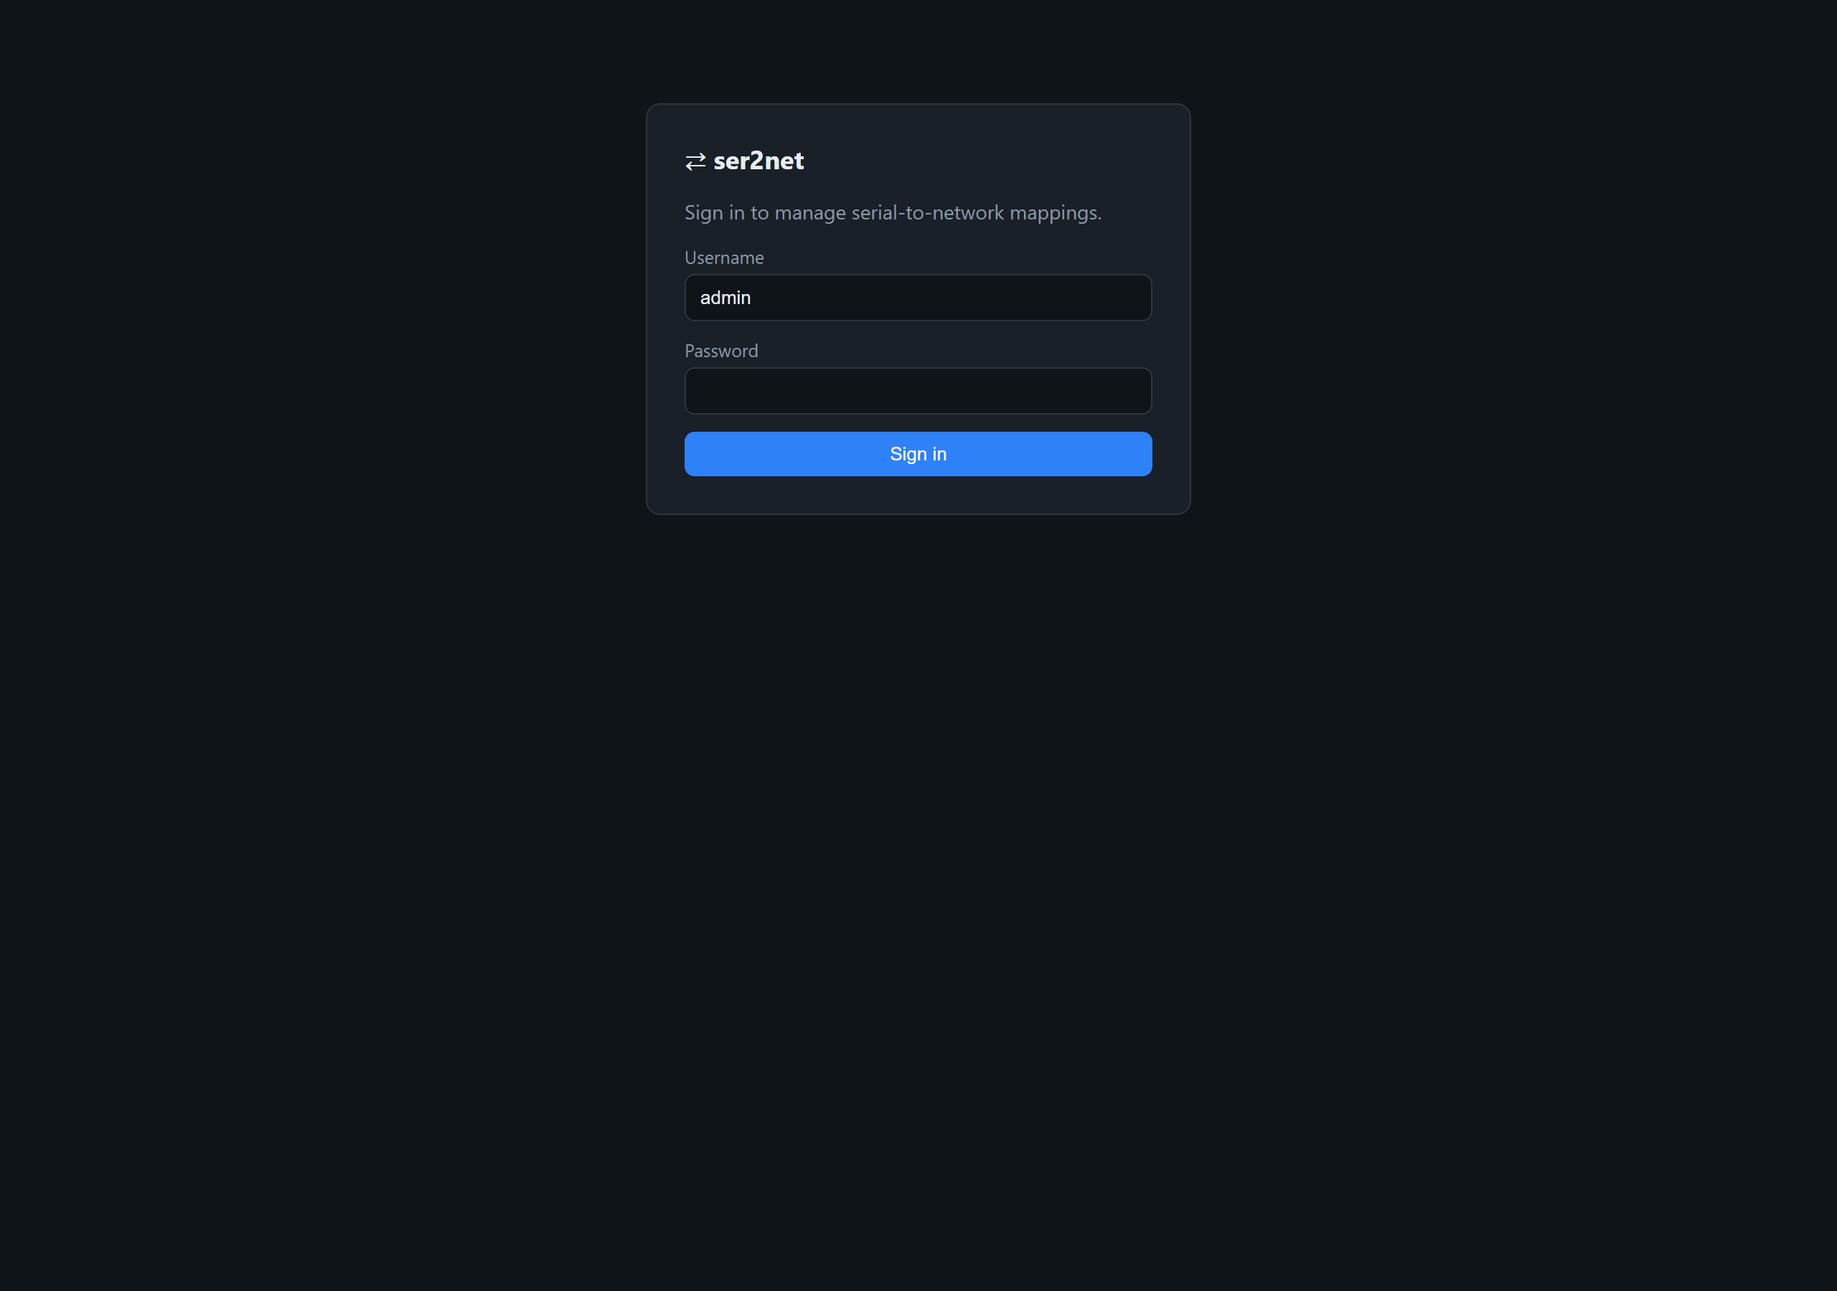
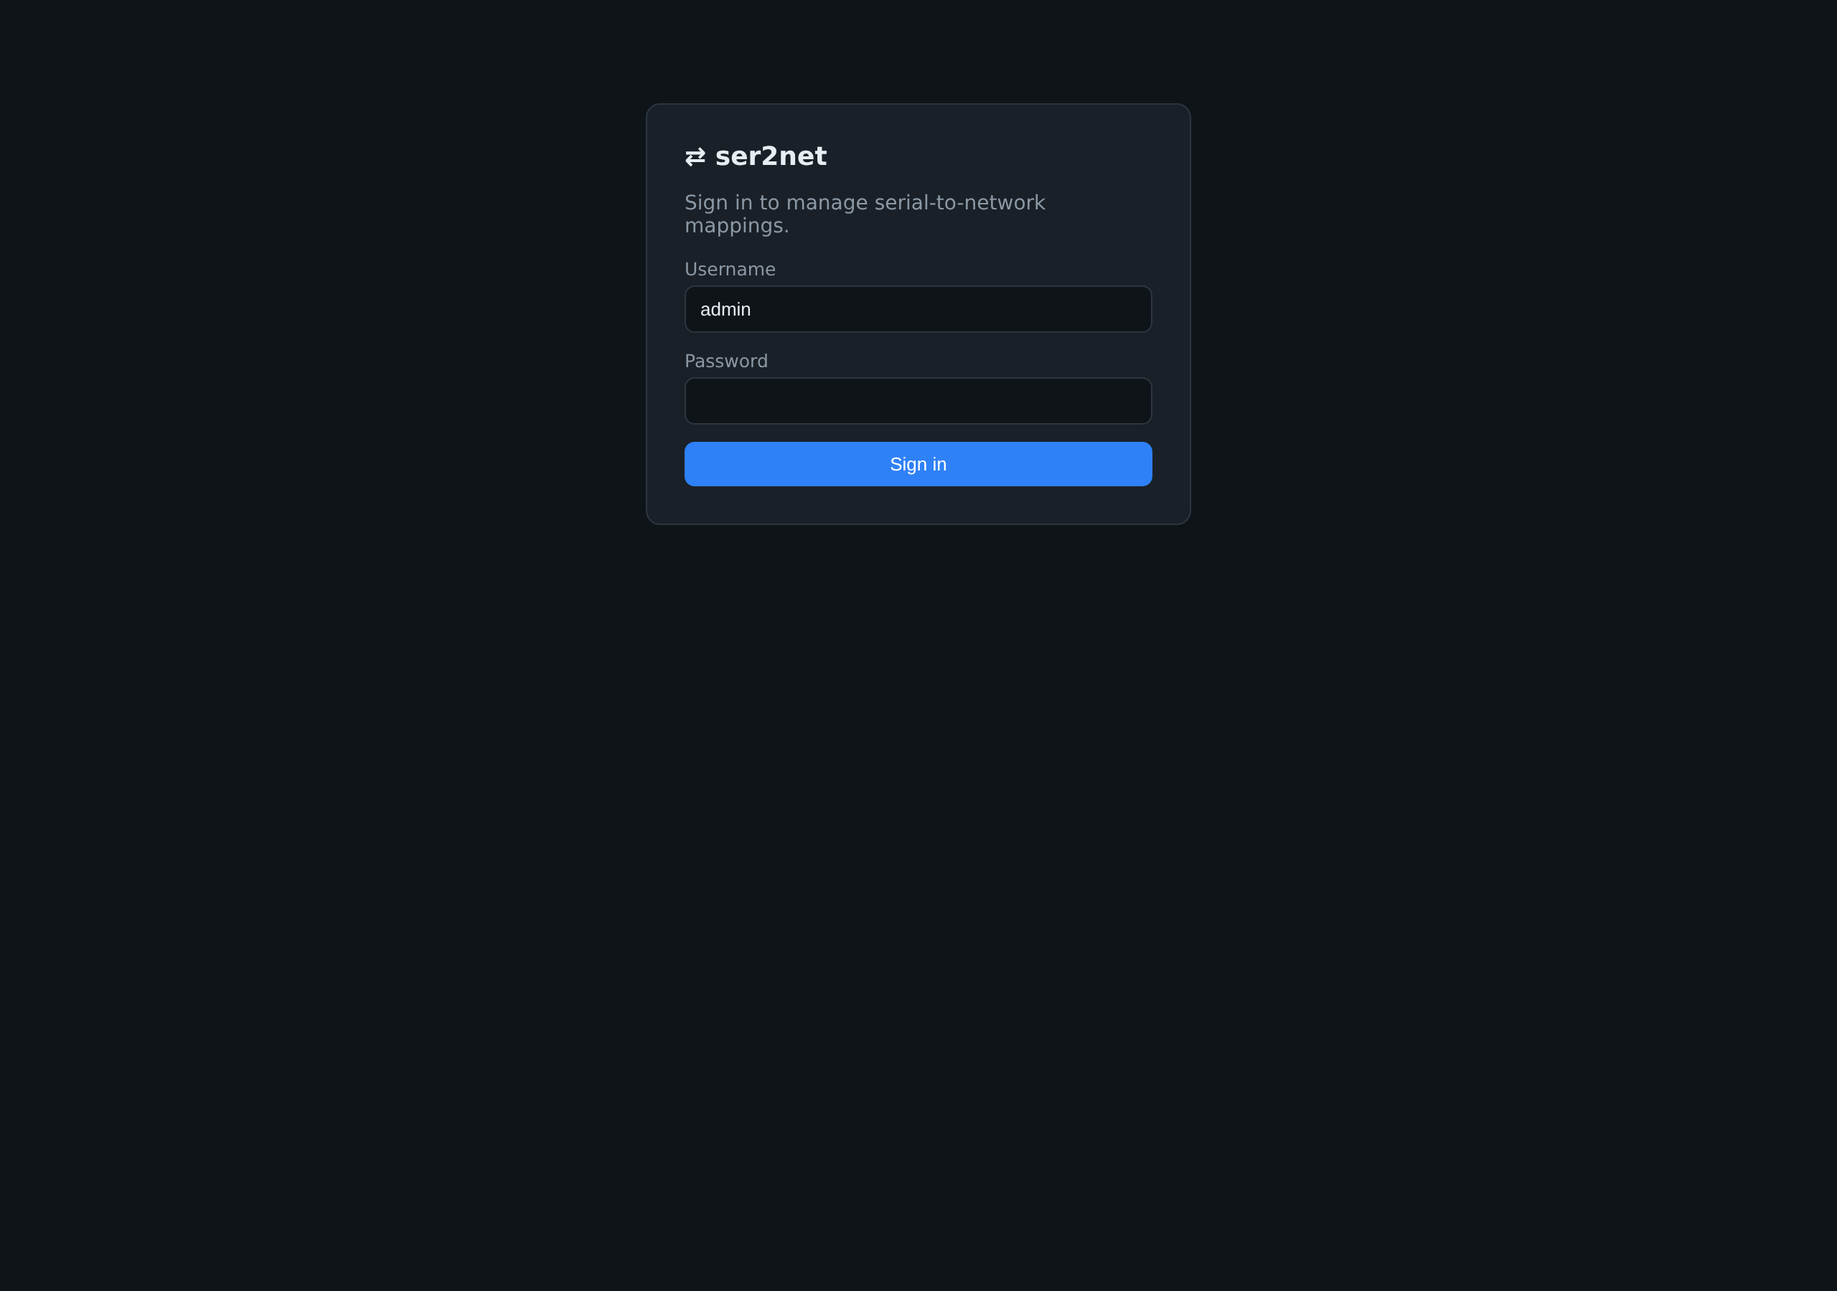
chore: post-v2.5 review — doc fixes, screenshots, cluster hardening, roadmap
Documentation accuracy:
- bootstrap.py: "Python 3.11+" -> "3.10+" (CI/requirements support 3.10).
- README (TR/EN): correct the data-file permission wording (the data DIR is
  locked 0700/icacls, not each file to 0600).
- ROADMAP: move shipped items out of "Planned" (OIDC SSO, REST token roles,
  light/dark theme, xterm fit-to-window, packaging, LAN cluster) into Shipped;
  rewrite the forward plan (cluster depth/hardening, IIoT, packaging, CI Node-24).

Screenshots:
- Regenerate from the running UI; the capture tool now starts a second cluster
  node so the dashboard's LAN-cluster panel shows a real multi-host fleet view.
- Add docs/screenshots/06-cluster.png; show it + the cluster panel in both READMEs.

Cluster code-review fixes (from the v2.5 review):
- cluster.py: close the UDP socket if create_datagram_endpoint() fails (no leak).
- config.py: ClusterSettings.validate raises a clean ConfigError on a non-numeric
  discovery_port instead of a raw ValueError.

Changed region(s): [[0.375, 0.0933, 0.625, 0.4044]]

diff --git a/tools/_capture_screenshots.py b/tools/_capture_screenshots.py
@@ -3,9 +3,11 @@
     pip install playwright && python -m playwright install chromium
     python tools/_capture_screenshots.py
 
-Seeds a few (disabled) demo mappings, completes first-run setup, adds an operator
-and a viewer so the Users panel is populated, then captures the login, dashboard,
-add-mapping form and settings pages. Not part of the app or the test suite.
+Starts TWO ser2net nodes that share a cluster key so the dashboard's LAN-cluster
+panel shows a real multi-host view, completes first-run setup on the primary node,
+adds an operator + viewer (to populate the Users panel), then captures the login,
+dashboard (with the cluster panel), add-mapping form, settings and cluster pages.
+Not part of the app or the test suite.
 """
 import json
 import os
@@ -15,13 +17,31 @@ import sys
 import tempfile
 import time
 
-from playwright.sync_api import sync_playwright
-
 ROOT = os.path.dirname(os.path.dirname(os.path.abspath(__file__)))
-SHOTS = os.path.join(ROOT, "docs", "screenshots")
-UI = 8099
-BASE = f"http://127.0.0.1:{UI}"
+sys.path.insert(0, os.path.join(ROOT, "lib"))
+sys.path.insert(0, ROOT)
 
+from playwright.sync_api import sync_playwright   # noqa: E402
+from app.web.auth import hash_password            # noqa: E402
+
+SHOTS = os.path.join(ROOT, "docs", "screenshots")
+UI = 8099            # primary node (the browser drives this one)
+UI_B = 8100          # second cluster node (data source for the fleet view)
+BASE = f"http://127.0.0.1:{UI}"
+CLUSTER_KEY = "demo-cluster-key"
+
+
+def free_port():
+    s = socket.socket()
+    s.bind(("127.0.0.1", 0))
+    p = s.getsockname()[1]
+    s.close()
+    return p
+
+
+DPORT = free_port()  # shared UDP discovery port for both nodes
+
+# Primary node's mappings (the browser node).
 DEMO_MAPPINGS = [
     {"name": "PLC-1", "enabled": False, "serial": {"port": "COM3", "baudrate": 9600},
      "network": {"mode": "server", "protocol": "rfc2217", "bind_ip": "0.0.0.0", "port": 4001}},
@@ -36,6 +56,16 @@ DEMO_MAPPINGS = [
      "serial": {"port": "COM6", "baudrate": 115200}, "serial_b": {"port": "COM7", "baudrate": 115200}},
 ]
 
+# Second node's mappings (shown as a remote host in the fleet table).
+DEMO_MAPPINGS_B = [
+    {"name": "Robot-arm", "enabled": False, "serial": {"port": "/dev/ttyACM0", "baudrate": 115200},
+     "network": {"mode": "server", "protocol": "raw", "bind_ip": "0.0.0.0", "port": 4001}},
+    {"name": "Welder-3", "enabled": False, "serial": {"port": "COM4", "baudrate": 9600},
+     "network": {"mode": "server", "protocol": "rfc2217", "bind_ip": "0.0.0.0", "port": 4002}},
+    {"name": "Weigh-east", "enabled": False, "serial": {"port": "/dev/ttyUSB3", "baudrate": 19200},
+     "network": {"mode": "server", "protocol": "raw", "bind_ip": "0.0.0.0", "port": 4003}},
+]
+
 
 def wait_port(port, timeout=20):
     end = time.time() + timeout
@@ -48,16 +78,32 @@ def wait_port(port, timeout=20):
     return False
 
 
-def main():
+def start_node(cfg_obj):
     tmp = tempfile.mkdtemp(prefix="ser2net_shots_")
     cfg = os.path.join(tmp, "config.json")
     with open(cfg, "w") as fh:
-        json.dump({"admin_ui": {"bind_ip": "127.0.0.1", "port": UI}, "mappings": DEMO_MAPPINGS}, fh)
-    srv = subprocess.Popen([sys.executable, "ser2net.py", "--no-bootstrap", "--config", cfg],
-                           cwd=ROOT, stdin=subprocess.DEVNULL,
-                           stdout=subprocess.DEVNULL, stderr=subprocess.DEVNULL)
+        json.dump(cfg_obj, fh)
+    proc = subprocess.Popen([sys.executable, "ser2net.py", "--no-bootstrap", "--config", cfg],
+                            cwd=ROOT, stdin=subprocess.DEVNULL,
+                            stdout=subprocess.DEVNULL, stderr=subprocess.DEVNULL)
+    return proc
+
+
+def main():
+    cluster = {"enabled": True, "key": CLUSTER_KEY, "discovery_port": DPORT}
+    # Bind both nodes to 0.0.0.0 so each is reachable at its auto-detected LAN IP
+    # (that is the address the other node advertises and fetches).
+    node_a = start_node({"admin_ui": {"bind_ip": "0.0.0.0", "port": UI},
+                         "cluster": cluster, "mappings": DEMO_MAPPINGS})
+    # Second node is pre-seeded with an admin so its key-guarded /api/cluster/local
+    # responds immediately (no first-run /setup gate); we never log into it.
+    node_b = start_node({"admin_ui": {"bind_ip": "0.0.0.0", "port": UI_B},
+                        "users": [{"username": "admin", "password_hash": hash_password("clusterdemo1"),
+                                   "role": "admin", "pwd_version": 1}],
+                        "cluster": cluster, "mappings": DEMO_MAPPINGS_B})
     try:
-        assert wait_port(UI), "server did not start"
+        assert wait_port(UI), "primary node did not start"
+        assert wait_port(UI_B), "second node did not start"
         with sync_playwright() as p:
             browser = p.chromium.launch()
             ctx = browser.new_context(viewport={"width": 1280, "height": 900},
@@ -82,16 +128,29 @@ def main():
                 page.click("form[action='/settings/users'] button[type=submit]")
                 page.wait_for_load_state("networkidle")
 
-            # 04 settings
+            # 04 settings (now includes the LAN cluster section)
             page.goto(f"{BASE}/settings")
             page.wait_for_load_state("networkidle")
             page.screenshot(path=os.path.join(SHOTS, "04-settings.png"), full_page=True)
 
-            # 02 dashboard (wait for the mappings table to load)
+            # 02 dashboard — wait for the cluster panel to discover the second node
             page.goto(f"{BASE}/")
             page.wait_for_selector("table.grid")
-            page.wait_for_timeout(800)
+            try:
+                page.wait_for_function(
+                    f"() => document.querySelector('#cluster') && "
+                    f"document.querySelector('#cluster').textContent.includes(':{UI_B}')",
+                    timeout=15000)
+            except Exception:
+                print("warning: second node did not appear in the cluster panel "
+                      "(UDP discovery may be blocked in this environment)")
+            page.wait_for_timeout(600)
             page.screenshot(path=os.path.join(SHOTS, "02-dashboard.png"), full_page=True)
+
+            # 06 cluster — close-up of just the fleet panel
+            panel = page.query_selector("#cluster")
+            if panel:
+                panel.screenshot(path=os.path.join(SHOTS, "06-cluster.png"))
 
             # 03 add-mapping form
             page.click("text=+ Add mapping")
@@ -106,13 +165,14 @@ def main():
             page.screenshot(path=os.path.join(SHOTS, "01-login.png"))
 
             browser.close()
-        print("captured: 01-login, 02-dashboard, 03-add-mapping, 04-settings")
+        print("captured: 01-login, 02-dashboard, 03-add-mapping, 04-settings, 06-cluster")
     finally:
-        srv.terminate()
-        try:
-            srv.wait(timeout=5)
-        except subprocess.TimeoutExpired:
-            srv.kill()
+        for proc in (node_a, node_b):
+            proc.terminate()
+            try:
+                proc.wait(timeout=5)
+            except subprocess.TimeoutExpired:
+                proc.kill()
 
 
 if __name__ == "__main__":

diff --git a/app/engine/cluster.py b/app/engine/cluster.py
@@ -141,8 +141,13 @@ class ClusterDiscovery:
             sock.close()
             self.log(f"cluster: could not bind UDP {port}: {e} — discovery disabled")
             return
-        self._transport, _ = await loop.create_datagram_endpoint(
-            lambda: _BeaconProtocol(self.handle_datagram), sock=sock)
+        try:
+            self._transport, _ = await loop.create_datagram_endpoint(
+                lambda: _BeaconProtocol(self.handle_datagram), sock=sock)
+        except OSError as e:
+            sock.close()  # endpoint creation owns the socket only on success
+            self.log(f"cluster: could not start UDP listener on {port}: {e} — discovery disabled")
+            return
         self._running = True
         self._beacon_task = asyncio.create_task(self._beacon_loop(), name="cluster-beacon")
         self.log(f"cluster: discovery on UDP {port} as '{socket.gethostname()}' "

diff --git a/app/config.py b/app/config.py
@@ -554,7 +554,11 @@ class ClusterSettings:
             return
         if not self.key.strip():
             raise ConfigError("Cluster is enabled but no shared key is set.")
-        if not (1 <= int(self.discovery_port) <= 65535):
+        try:
+            port = int(self.discovery_port)
+        except (TypeError, ValueError):
+            raise ConfigError("Cluster discovery port must be a number.") from None
+        if not (1 <= port <= 65535):
             raise ConfigError("Cluster discovery port must be 1..65535.")
         if self.advertise_ip.strip():
             try:

diff --git a/bootstrap.py b/bootstrap.py
@@ -2,7 +2,7 @@
 
 On first run this installs the bundled wheels from ``vendor/wheels/`` into a
 local ``lib/`` directory (added to ``sys.path`` by ``ser2net.py``), so the app
-runs on any machine that merely has a Python 3.11+ interpreter — no internet,
+runs on any machine that merely has a Python 3.10+ interpreter — no internet,
 no virtualenv, no system-wide installs required.
 
 It is idempotent: if every dependency already imports, it does nothing.

diff --git a/ROADMAP.md b/ROADMAP.md
@@ -1,5 +1,7 @@
 # ser2net — Roadmap
 
+> Current release: **v2.5.0**. CI is green across Linux + Windows × Python 3.10–3.13.
+
 ## Shipped
 
 ### v1.0 — MVP
@@ -29,8 +31,6 @@
 - **Admin TLS** via cert/key paths or `openssl` self-signed generation
 - **Mappings export/import** (JSON, no secrets) + duplicate
 
----
-
 ### v2.1a — in-browser serial console
 - xterm.js terminal over an authenticated WebSocket (`/api/mappings/{id}/console`):
   read live traffic, or type to the device (net mappings, not read-only)
@@ -49,9 +49,7 @@
 - **Docker** image + `docker-compose` + headless bind env; **CI** (GitHub Actions:
   ruff + ubuntu/windows × Python 3.10–3.13); unified cross-platform test runner
 
-### v2.2 — commercial features (Phase 2)
-- **REST API** (`/api/v1`): bearer-token JSON API — mapping CRUD, start/stop/restart,
-  status, ports, OpenAPI 3.0 spec
+### v2.2 — Modbus, RBAC, LDAP, MQTT (Phase 2)
 - **Modbus RTU↔TCP gateway** (`protocol=modbus`): multi-master, bus-locked
   transactions, txn-id integrity, `0x0B` timeout; reply-unit validation. **Edge mode:**
   periodic register polling (uint/int/float 16/32, scaling) published to MQTT
@@ -61,33 +59,55 @@
   group→role mapping, shadow accounts on the RBAC model
 - **MQTT publishing** (optional `paho-mqtt`): per-mapping serial-line → broker with
   retained birth/death
-- **Client-side virtual COM** recipes (`docs/VIRTUAL-COM.md`); refreshed UI screenshots
+- **Client-side virtual COM** recipes (`docs/VIRTUAL-COM.md`)
+
+### v2.3 — UX & access polish
+- **OIDC single sign-on** (authorization-code flow + issuer discovery; claim→role
+  mapping, shadow accounts) — `app/web/oidc_auth.py`, optional `authlib`
+- **REST API token roles** (`admin` / `operator` / `viewer`; `viewer` is read-only)
+- **Light / dark theme toggle** (persisted in `localStorage`); xterm fit-to-window addon
+- _(i18n was dropped — the UI stays English by decision.)_
+
+### v2.4 — packaging & distribution
+- **PyInstaller standalone builds** (Windows `.exe`, Linux binary) bundling the optional
+  MQTT/LDAP/OIDC deps; GitHub Actions release artifacts published on `v*` tags
+
+### v2.5 — LAN cluster
+- **Auto-discovery + unified fleet view**: nodes find each other via HMAC-signed UDP
+  broadcast beacons (no mDNS) and one node aggregates every node's mappings into a
+  single **read-only** table, each row tagged with its host (name + IP). Opt-in, off by
+  default; trust = a shared cluster key. Server-side fan-out to peers' key-guarded
+  `/api/cluster/local`; the browser only talks to the node it logged into.
 
 ---
 
 ## Planned
 
-### v2.3 — UX & access polish
-- **OIDC / SAML browser-SSO** (next auth step after LDAP; auth-code flow + JWKS)
-- **REST API token scopes/roles** (currently a single admin-level token) + per-token
-- i18n (TR/EN) for the UI; dark/light theme toggle; xterm fit-to-window addon
+### v2.6 — cluster depth & hardening
+- **Remote control** from the unified view: start/stop/edit a peer's mappings (the read
+  path exists; add a key-guarded write endpoint + role check on the target node)
+- **Per-node health/uptime** column; surface a node-level "discovery disabled" status in
+  the UI when the UDP bind fails (today it only logs)
+- **Manual peer list** for routed/L3 networks where broadcast doesn't reach (complement
+  to auto-discovery)
+- **Security hardening** (from the v2.5 review): validate/curb peer-advertised IPs before
+  server-side fetch (SSRF defense-in-depth), optional TLS certificate pinning for peer
+  fetch, a light rate-limit on `/api/cluster/local`, optional IPv6 (multicast) discovery
 
-### v2.4 — packaging & distribution
-- ~~PyInstaller standalone builds (Windows `.exe`, Linux binary) bundling the optional
-  MQTT/LDAP/OIDC deps; GitHub Actions release artifacts on `v*` tags~~ ✅ shipped
-- Windows service installer (Shawl); `.deb` / `.rpm`
-- Automated multi-platform offline wheelhouse (cp311–cp313 × OS) for source installs
-
-### v2.5 — industrial/IIoT depth
+### v2.7 — industrial/IIoT depth
 - **Sparkplug B** edge payloads (Modbus register + MQTT plumbing already in place)
-- Modbus: write support (FC 5/6/15/16), per-point MQTT→register control, RTU inter-frame
-  tuning; RS-485 hardware auto-RTS (`TIOCSRS485`) UI
-- ~~LAN **cluster dashboard**: nodes auto-discover each other (signed UDP broadcast,
-  no mDNS) and one node shows every node's mappings in a single read-only table, each
-  row tagged with its host (name + IP)~~ ✅ shipped (v2.5a)
-- Cluster: remote control (start/stop/edit a peer's mappings from one screen) + per-node
-  health/uptime in the unified view
-- classic `ser2net.yaml` import for migration
+- **Modbus write** support (FC 5/6/15/16), per-point MQTT→register control, RTU
+  inter-frame tuning
+- **RS-485 hardware auto-RTS** (`TIOCSRS485`) UI
+
+### v2.8 — packaging & migration
+- Windows service installer (Shawl); `.deb` / `.rpm` packages
+- Automated multi-platform offline wheelhouse (cp310–cp313 × OS) for source installs
+- Classic `ser2net.yaml` import for migration
+
+### Maintenance
+- Bump pinned GitHub Actions off Node 20 (deprecated 2026-06-16) to current
+  `actions/*@v5` to clear the CI/release deprecation warnings
 
 ### Icebox / conditional
 - Thread-per-port serial backend — only if a real Windows high-throughput /
@@ -95,7 +115,8 @@
 - Per-mapping TLS client certificate verification (mTLS) for data bridges
 - Pluggable persistent session store
 
-> Note: mDNS/zeroconf advertising has been removed from the roadmap.
+> Note: mDNS/zeroconf advertising is intentionally **not** on the roadmap; LAN cluster
+> discovery uses signed UDP broadcast instead.
 
 ---
 

diff --git a/README.md b/README.md
@@ -14,15 +14,19 @@ web arayüzünden yönetilen, çapraz-platform (Windows + Linux) saf-Python köp
 
 ## 📸 Ekran Görüntüleri
 
-**Pano — onlarca eşleme, canlı durum, algılanan portlar:**
+**Pano — onlarca eşleme, canlı durum, algılanan portlar ve LAN cluster paneli:**
 
 ![Pano](docs/screenshots/02-dashboard.png)
+
+**LAN cluster — ağdaki tüm düğümlerin eşlemeleri tek tabloda, her satırda host (ad + IP):**
+
+![Cluster](docs/screenshots/06-cluster.png)
 
 | Eşleme ekleme (tüm seri/ağ seçenekleri) | Tarayıcı-içi seri konsol (xterm.js) |
 |---|---|
 | ![Eşleme formu](docs/screenshots/03-add-mapping.png) | ![Konsol](docs/screenshots/05-console.png) |
 
-| Ayarlar (parola · TLS · yedek) | Giriş |
+| Ayarlar (parola · TLS · cluster · yedek) | Giriş |
 |---|---|
 | ![Ayarlar](docs/screenshots/04-settings.png) | ![Giriş](docs/screenshots/01-login.png) |
 
@@ -224,9 +228,10 @@ Raw TCP düz-metindir — güvensiz ağlarda dikkat. Allowed/priority listesinde
 
 ## 🗂 Yapılandırma & durum dosyaları
 
-Tüm durum **veri dizininde** (varsayılan `data/`):
-- `config.json` — admin IP, parola hash'i, tüm eşlemeler (atomik yazım; sahibe özel
-  izinler: POSIX'te 0600, Windows'ta `icacls` ile sahip/SYSTEM/Administrators).
+Tüm durum **veri dizininde** (varsayılan `data/`). Veri dizini yalnızca sahibe açık
+kilitlenir (POSIX `0700`; Windows'ta `icacls` ile sahip/SYSTEM/Administrators), böylece
+içindeki dosyalar başka kullanıcılarca okunamaz:
+- `config.json` — admin IP, parola hash'i, tüm eşlemeler (atomik yazım).
 - `all.log` — global etkinlik/audit; `audit.log` — config değişiklikleri.
 - `logs/<id>.log` — eşleme başına geçmiş (saatlik bakım: >15 gün veya >100MB kırpılır).
 - `tls/` — self-signed üretilirse sertifika/anahtar.

diff --git a/README.en.md b/README.en.md
@@ -13,15 +13,19 @@ with low latency.
 
 ## 📸 Screenshots
 
-**Dashboard — dozens of mappings, live status, detected ports:**
+**Dashboard — dozens of mappings, live status, detected ports and the LAN cluster panel:**
 
 ![Dashboard](docs/screenshots/02-dashboard.png)
+
+**LAN cluster — every node's mappings in one table, each row tagged with its host (name + IP):**
+
+![Cluster](docs/screenshots/06-cluster.png)
 
 | Add mapping (all serial/network options) | In-browser serial console (xterm.js) |
 |---|---|
 | ![Mapping form](docs/screenshots/03-add-mapping.png) | ![Console](docs/screenshots/05-console.png) |
 
-| Settings (password · TLS · backup) | Login |
+| Settings (password · TLS · cluster · backup) | Login |
 |---|---|
 | ![Settings](docs/screenshots/04-settings.png) | ![Login](docs/screenshots/01-login.png) |
 
@@ -225,9 +229,10 @@ bound without TLS. For LAN deployments, use TLS (`admin_ui.tls_*`) and per-mappi
 
 ## 🗂 Configuration & state files
 
-All state lives in the **data dir** (default `data/`):
-- `config.json` — admin IP, password hash, all mappings (atomic write; owner-only
-  perms: 0600 on POSIX, `icacls` owner/SYSTEM/Administrators on Windows).
+All state lives in the **data dir** (default `data/`). The data directory is locked to
+owner-only (POSIX `0700`; Windows `icacls` owner/SYSTEM/Administrators), so the files
+inside aren't readable by other users:
+- `config.json` — admin IP, password hash, all mappings (atomic write).
 - `all.log` — global activity/audit; `audit.log` — config changes.
 - `logs/<id>.log` — per-mapping history (hourly maintenance: trimmed >15 days / >100 MB).
 - `tls/` — certificate/key if self-signed is generated.
